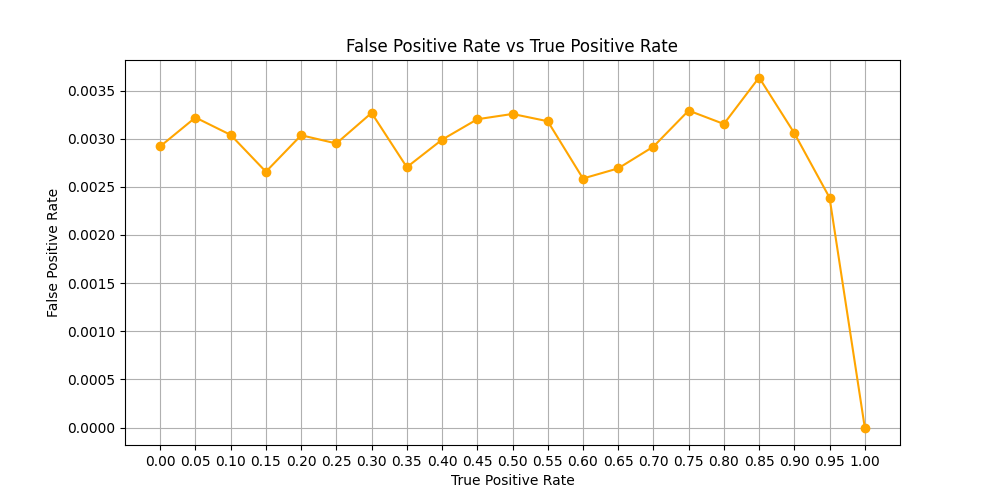
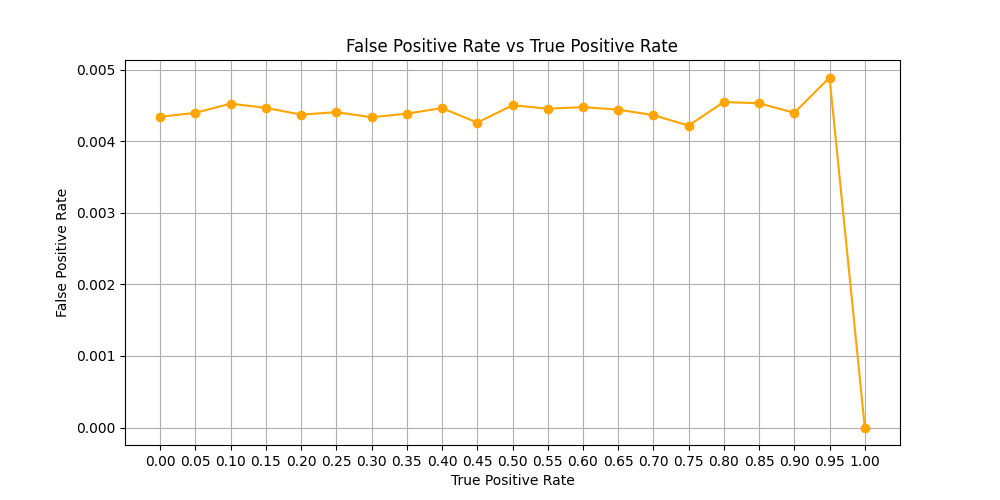
chore: run tp analysis with more trials

diff --git a/analyses/true_positive_rate_influence/tp_rate.py b/analyses/true_positive_rate_influence/tp_rate.py
@@ -25,7 +25,7 @@ def main():
         metrics = IdMetrics.evaluate_system(
             rsid_system,
             messages,
-            num_trials=100000,
+            num_trials=1000000,
             timing_iterations=0,
             p_true_positive=tp_rate,
         )
